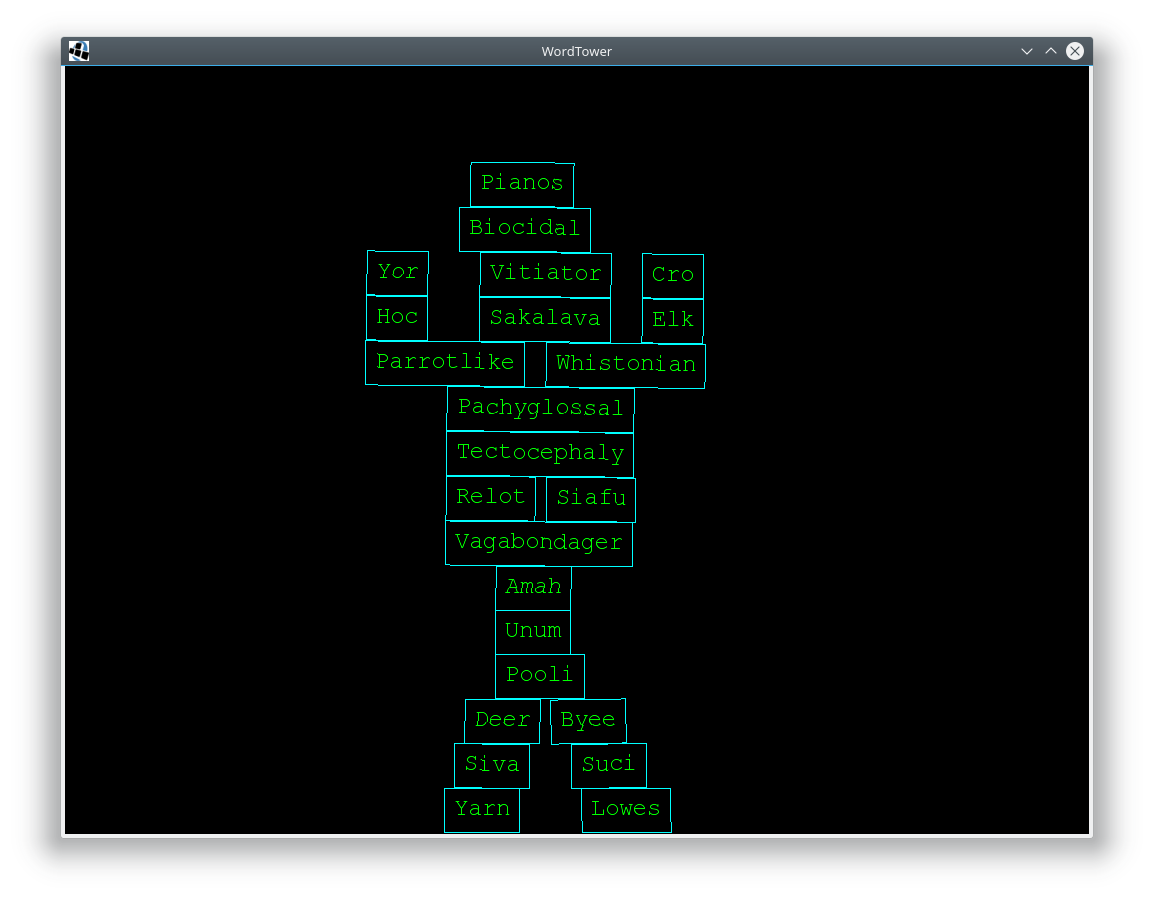
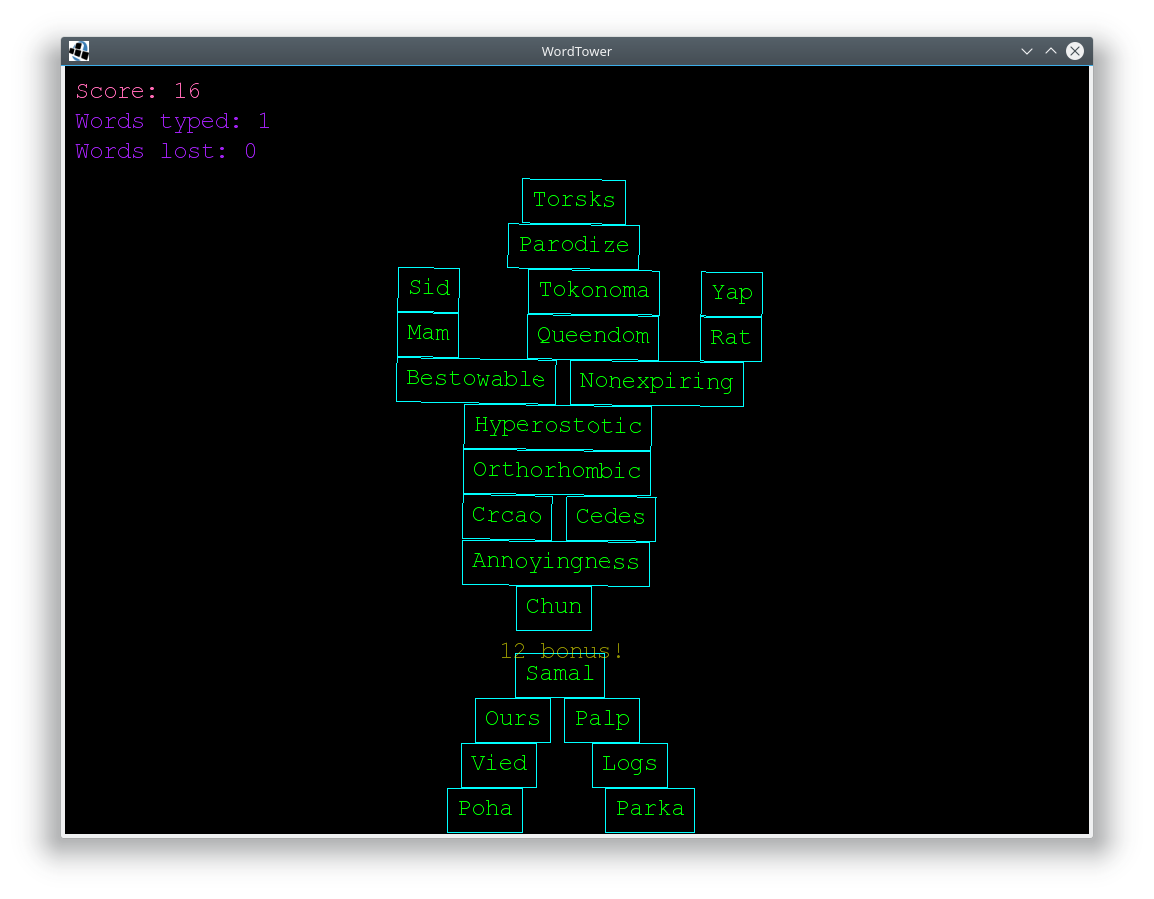
Calculating scores

Changed region(s): [[0.312, 0.1869, 0.6551, 0.9032], [0.0624, 0.0934, 0.1248, 0.1869], [0.156, 0.1246, 0.1872, 0.1869]]

diff --git a/core/src/pl/lonski/wordtower/PlayStage.java b/core/src/pl/lonski/wordtower/PlayStage.java
@@ -1,49 +1,67 @@
 package pl.lonski.wordtower;
 
+import static com.badlogic.gdx.scenes.scene2d.actions.Actions.*;
+
+import java.security.SecureRandom;
 import java.util.List;
+import java.util.Random;
 
 import com.badlogic.gdx.Gdx;
 import com.badlogic.gdx.graphics.Color;
+import com.badlogic.gdx.scenes.scene2d.Actor;
 import com.badlogic.gdx.scenes.scene2d.Stage;
 import com.badlogic.gdx.scenes.scene2d.ui.Label;
 import com.badlogic.gdx.scenes.scene2d.ui.Skin;
 
 class PlayStage extends Stage {
 
+	private Random random;
 	private PlayerData playerData;
+	private Label score;
 	private Label wordCounter;
 	private Label wordsLost;
 	private Label.LabelStyle hudLabelStyle;
+	private Label.LabelStyle scoreLabelStyle;
+	private Label.LabelStyle bonusLabelStyle;
 	private List<Word> words;
 
 	PlayStage(List<Word> words, WorldManager worldManager) {
+		this.random = new SecureRandom();
 		this.words = words;
 		this.words.forEach(this::addActor);
 
 		Skin skin = SkinProvider.getSkin();
-		this.hudLabelStyle = new Label.LabelStyle(skin.getFont("currier-font"), Color.BLUE);
+		this.hudLabelStyle = new Label.LabelStyle(skin.getFont("currier-font"), Color.PURPLE);
+		this.scoreLabelStyle = new Label.LabelStyle(skin.getFont("currier-font"), Color.PINK);
+		this.bonusLabelStyle = new Label.LabelStyle(skin.getFont("currier-font"), Color.YELLOW);
 
 		createWordsCounter();
 		createLostWordsCounter();
+		createScoreLabel();
 
-		worldManager.setFloorCollisionHandler(body -> {
-			words.stream().filter(w -> w.getBody() == body).findFirst().ifPresent(this::looseWord);
-		});
+		worldManager.setFloorCollisionHandler(
+				body -> words.stream().filter(w -> w.getBody() == body).findFirst().ifPresent(this::looseWord));
 	}
 
 	int getRemainingWordsCount() {
 		return words.size();
 	}
 
+	private void createScoreLabel() {
+		score = new Label("Score: 0", scoreLabelStyle);
+		score.setPosition(10, Gdx.graphics.getHeight() - score.getHeight() - 10);
+		addActor(score);
+	}
+
 	private void createWordsCounter() {
 		wordCounter = new Label("Words typed: 0", hudLabelStyle);
-		wordCounter.setPosition(10, Gdx.graphics.getHeight() - wordCounter.getHeight() - 10);
+		wordCounter.setPosition(10, Gdx.graphics.getHeight() - wordCounter.getHeight() * 2 - 10);
 		addActor(wordCounter);
 	}
 
 	private void createLostWordsCounter() {
 		wordsLost = new Label("Words lost: 0", hudLabelStyle);
-		wordsLost.setPosition(10, Gdx.graphics.getHeight() - wordsLost.getHeight() * 2 - 10);
+		wordsLost.setPosition(10, Gdx.graphics.getHeight() - wordsLost.getHeight() * 3 - 10);
 		addActor(wordsLost);
 	}
 
@@ -60,17 +78,32 @@ class PlayStage extends Stage {
 	}
 
 	private void scoreWord(Word word) {
+		int score = word.getSize();
+		int bonus = (int) words.stream()
+				.filter(w -> w.getY() > word.getY())
+				.filter(w -> (word.getX() + word.getWidth()) > w.getX() && word.getX() < (w.getX() + w.getWidth()))
+				.mapToInt(Word::getSize)
+				.map(size -> Math.max(size / 4, 1))
+				.count();
+
+		if (bonus > 0) {
+			addActor(new BonusLabel(bonus, word));
+		}
+
+		playerData.addScore(score + bonus);
+		playerData.incWordsTyped();
+
 		word.remove();
 		words.remove(word);
 		words.forEach(Word::reset);
-		playerData.setWordsTyped(playerData.getWordsTyped() + 1);
+
 		updateLabels();
 	}
 
 	private void looseWord(Word word) {
 		word.remove();
 		words.remove(word);
-		playerData.setWordsMissed(playerData.getWordsMissed() + 1);
+		playerData.incWordsMissed();
 		updateLabels();
 	}
 
@@ -80,7 +113,20 @@ class PlayStage extends Stage {
 	}
 
 	private void updateLabels() {
+		score.setText("Score: " + playerData.getScore());
 		wordCounter.setText("Words typed: " + playerData.getWordsTyped());
 		wordsLost.setText("Words lost: " + playerData.getWordsMissed());
 	}
+
+
+	class BonusLabel extends Label {
+
+		BonusLabel(int bonus, Actor word) {
+			super(bonus + " bonus!", bonusLabelStyle);
+			setX(word.getX() + random.nextInt(20) * (random.nextBoolean() ? 1 : -1));
+			setY(word.getY() + random.nextInt(20) * (random.nextBoolean() ? 1 : -1));
+			addAction(sequence(fadeOut(0.001f), fadeIn(0.2f), fadeOut(1f), removeActor()));
+		}
+	}
+
 }

diff --git a/core/src/pl/lonski/wordtower/PlayerData.java b/core/src/pl/lonski/wordtower/PlayerData.java
@@ -2,15 +2,21 @@ package pl.lonski.wordtower;
 
 public class PlayerData {
 
+	private int score;
 	private int wordsTyped;
 	private int wordsMissed;
+
+	public PlayerData addScore(int score) {
+		this.score += score;
+		return this;
+	}
 
 	public int getWordsTyped() {
 		return wordsTyped;
 	}
 
-	public PlayerData setWordsTyped(int wordsTyped) {
-		this.wordsTyped = wordsTyped;
+	public PlayerData incWordsTyped() {
+		wordsTyped++;
 		return this;
 	}
 
@@ -18,8 +24,12 @@ public class PlayerData {
 		return wordsMissed;
 	}
 
-	public PlayerData setWordsMissed(int wordsMissed) {
-		this.wordsMissed = wordsMissed;
+	public PlayerData incWordsMissed() {
+		wordsMissed++;
 		return this;
+	}
+
+	public int getScore() {
+		return score;
 	}
 }

diff --git a/core/src/pl/lonski/wordtower/Word.java b/core/src/pl/lonski/wordtower/Word.java
@@ -55,6 +55,10 @@ class Word extends Group {
 		this.body = createBody(world);
 	}
 
+	public int getSize() {
+		return text.length();
+	}
+
 	public Body getBody() {
 		return body;
 	}
@@ -69,7 +73,7 @@ class Word extends Group {
 		if (!isCompleted() && character == text.charAt(characterIdx)) {
 			letters.get(characterIdx).setStyle(styleTyped);
 			++characterIdx;
-		}else if (characterIdx > 0) {
+		} else if (characterIdx > 0) {
 			reset();
 		}
 	}
